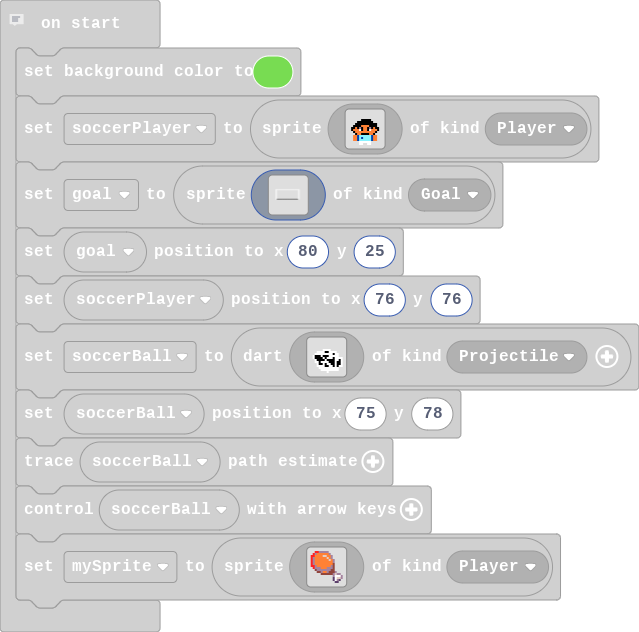
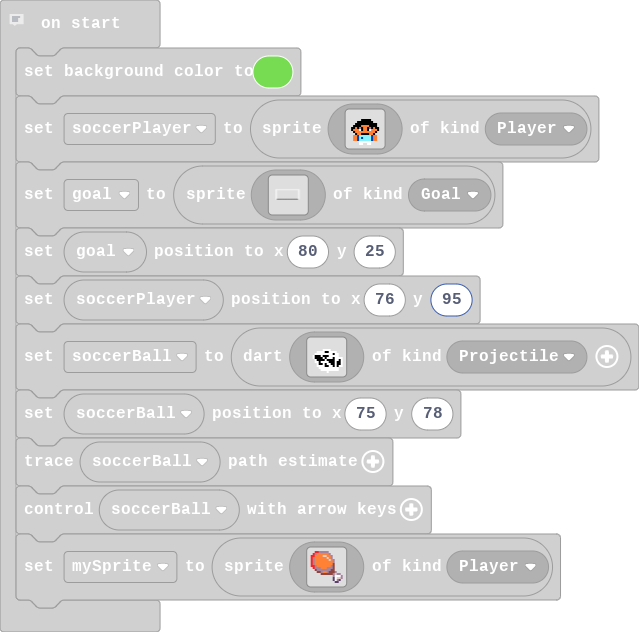
Update main.blocks, main.ts

Changed region(s): [[0.3865, 0.2405, 0.5352, 0.3608], [0.5649, 0.4209, 0.6244, 0.4509], [0.6839, 0.4509, 0.7136, 0.481]]

diff --git a/main.ts b/main.ts
@@ -88,7 +88,7 @@ let goal = sprites.create(img`
     ......................................................................................................................................................
     `, SpriteKind.Goal)
 goal.setPosition(80, 25)
-soccerPlayer.setPosition(76, 76)
+soccerPlayer.setPosition(76, 95)
 soccerBall = darts.create(img`
     . . . . . . . . . . . . . . . . 
     . . . . . . . . . . . . . . . . 
